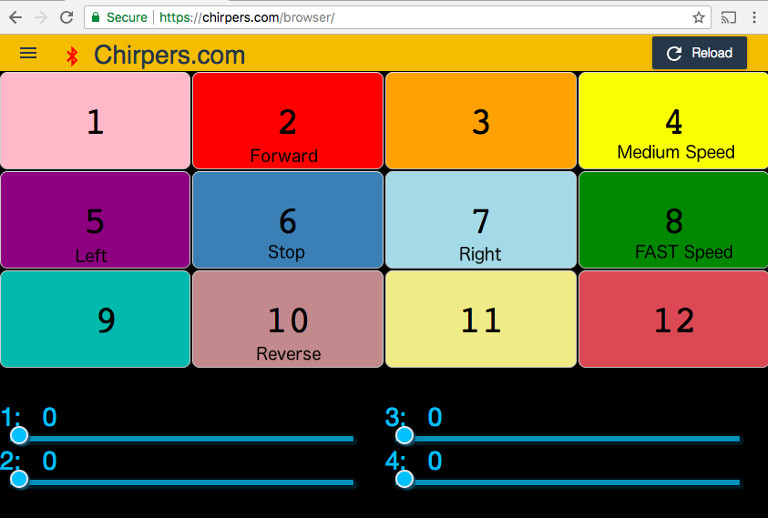
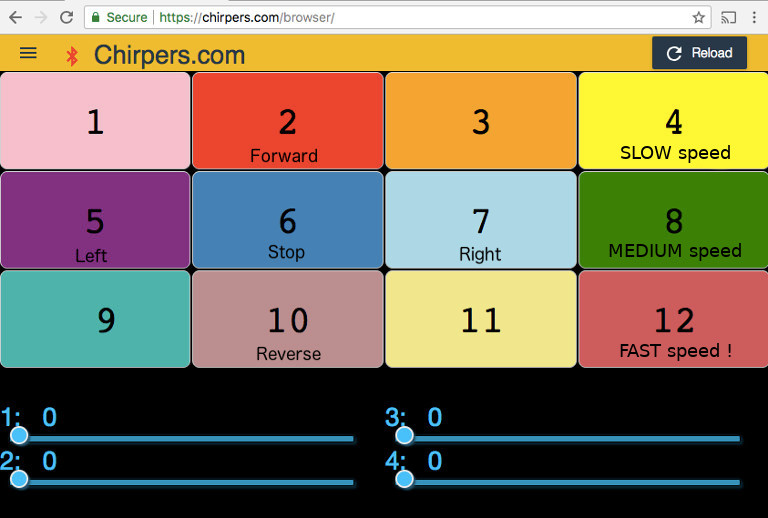
pic

diff --git a/README.md b/README.md
@@ -66,7 +66,7 @@ Import -> Examples -> synergy 2019 lolin32 oled bot
 or copy and paste:
 
 ```javascript
-[{"id":"w7289B2H_X4","type":"bluetooth out","z":"UFiUzfL0xVA","name":"digital","characteristicId":"2a56","bleServiceId":"bada5555-e91f-1337-a49b-8675309fb099","x":636,"y":157,"wires":[]},{"id":"IMIdfb8ZRDc","type":"bluetooth out","z":"UFiUzfL0xVA","name":"analog","characteristicId":"2a58","bleServiceId":"bada5555-e91f-1337-a49b-8675309fb099","x":648,"y":421,"wires":[]},{"id":"XLiyeeZNfHg","type":"iot buttons","z":"UFiUzfL0xVA","x":79.5,"y":38,"wires":[["ZpGYRy-6SjU"]]},{"id":"ZpGYRy-6SjU","type":"switch","z":"UFiUzfL0xVA","name":"","property":"payload","propertyType":"msg","rules":[{"t":"eq","v":"2","vt":"num"},{"t":"eq","v":"10","vt":"num"},{"t":"eq","v":"5","vt":"num"},{"t":"eq","v":"7","vt":"num"},{"t":"eq","v":"6","vt":"num"},{"t":"eq","v":"4","vt":"num"},{"t":"eq","v":"8","vt":"num"},{"t":"eq","v":"1","vt":"str"}],"checkall":"true","outputs":8,"x":157,"y":270,"wires":[["3G19J9pm8kg"],["Vy_DQgVO6Tg"],["ABJ-PXjp8L8"],["s1Vjl8NOHVM"],["in0eScdUR_o"],["m3dKjykASr8"],["tVJtHjltcWw"],[]]},{"id":"in0eScdUR_o","type":"change","z":"UFiUzfL0xVA","name":"stop","rules":[{"t":"set","p":"payload","pt":"msg","to":"[19,0,0,4,0,0]","tot":"json"}],"action":"","property":"","from":"","to":"","reg":false,"x":415,"y":366,"wires":[["IMIdfb8ZRDc"]]},{"id":"m3dKjykASr8","type":"change","z":"UFiUzfL0xVA","name":"medium","rules":[{"t":"set","p":"payload","pt":"msg","to":"[19,200,0,4,200,0]","tot":"json"}],"action":"","property":"","from":"","to":"","reg":false,"x":417,"y":426,"wires":[["IMIdfb8ZRDc"]]},{"id":"tVJtHjltcWw","type":"change","z":"UFiUzfL0xVA","name":"fast","rules":[{"t":"set","p":"payload","pt":"msg","to":"[19,255,255,4,255,255]","tot":"json"}],"action":"","property":"","from":"","to":"","reg":false,"x":417,"y":488,"wires":[["IMIdfb8ZRDc"]]},{"id":"3G19J9pm8kg","type":"change","z":"UFiUzfL0xVA","name":"forward","rules":[{"t":"set","p":"payload","pt":"msg","to":"[23,1,18,0,17,1,16,0]","tot":"json"}],"action":"","property":"","from":"","to":"","reg":false,"x":408,"y":70,"wires":[["w7289B2H_X4"]]},{"id":"Vy_DQgVO6Tg","type":"change","z":"UFiUzfL0xVA","name":"reverse","rules":[{"t":"set","p":"payload","pt":"msg","to":"[23,0,18,1,17,0,16,1]","tot":"json"}],"action":"","property":"","from":"","to":"","reg":false,"x":408,"y":136,"wires":[["w7289B2H_X4"]]},{"id":"ABJ-PXjp8L8","type":"change","z":"UFiUzfL0xVA","name":"left","rules":[{"t":"set","p":"payload","pt":"msg","to":"[23,1,18,0,17,0,16,1]","tot":"json"}],"action":"","property":"","from":"","to":"","reg":false,"x":409,"y":197,"wires":[["w7289B2H_X4"]]},{"id":"s1Vjl8NOHVM","type":"change","z":"UFiUzfL0xVA","name":"right","rules":[{"t":"set","p":"payload","pt":"msg","to":"[17,1,16,0,23,0,18,1]","tot":"json"}],"action":"","property":"","from":"","to":"","reg":false,"x":408,"y":263,"wires":[["w7289B2H_X4"]]}]
+[{"id":"G9ihNm2CSyU","type":"bluetooth out","z":"Punipf5yV3E","name":"digital / direction","deviceName":"","characteristicId":"2a56","bleServiceId":"bada5555-e91f-1337-a49b-8675309fb099","x":646.5000076293945,"y":468.80004596710205,"wires":[]},{"id":"OYC-sdySLAw","type":"bluetooth out","z":"Punipf5yV3E","name":"analog / speed","deviceName":"","characteristicId":"2a58","bleServiceId":"bada5555-e91f-1337-a49b-8675309fb099","x":658.5000076293945,"y":732.800045967102,"wires":[]},{"id":"1nu8lbyIEnA","type":"iot buttons","z":"Punipf5yV3E","x":90.00000762939453,"y":349.80004596710205,"wires":[["QDDvGIHyq-c"]]},{"id":"QDDvGIHyq-c","type":"switch","z":"Punipf5yV3E","name":"","property":"payload","propertyType":"msg","rules":[{"t":"eq","v":"2","vt":"num"},{"t":"eq","v":"10","vt":"num"},{"t":"eq","v":"5","vt":"num"},{"t":"eq","v":"7","vt":"num"},{"t":"eq","v":"6","vt":"num"},{"t":"eq","v":"4","vt":"num"},{"t":"eq","v":"8","vt":"num"},{"t":"eq","v":"12","vt":"str"}],"checkall":"true","outputs":8,"x":167.50000762939453,"y":581.800045967102,"wires":[["hZXVQYxLZt4"],["sN2hlGG-vLw"],["KZ3nNFvuqVs"],["7biqbIx0zkI"],["XFyAcAXWf8Q","c0z18ZM4j5c"],["vNVt9kMLmyk"],["0ler7QlFLjI"],["BKUpzsHsuoY"]]},{"id":"XFyAcAXWf8Q","type":"change","z":"Punipf5yV3E","name":"stop","rules":[{"t":"set","p":"payload","pt":"msg","to":"[0,0,0, 15,0,0]","tot":"json"}],"action":"","property":"","from":"","to":"","reg":false,"x":417.5000190734863,"y":689.799976348877,"wires":[["OYC-sdySLAw"]]},{"id":"0ler7QlFLjI","type":"change","z":"Punipf5yV3E","name":"medium","rules":[{"t":"set","p":"payload","pt":"msg","to":"[0,220,0, 15,220,0]","tot":"json"}],"action":"","property":"","from":"","to":"","reg":false,"x":419.5000190734863,"y":766.7999773025513,"wires":[["OYC-sdySLAw"]]},{"id":"BKUpzsHsuoY","type":"change","z":"Punipf5yV3E","name":"fast","rules":[{"t":"set","p":"payload","pt":"msg","to":"[0,255,255, 15,255,255]","tot":"json"}],"action":"","property":"","from":"","to":"","reg":false,"x":421.5000228881836,"y":806.7999792098999,"wires":[["OYC-sdySLAw"]]},{"id":"hZXVQYxLZt4","type":"change","z":"Punipf5yV3E","name":"forward","rules":[{"t":"set","p":"payload","pt":"msg","to":"[2, 1, 14, 0, 12, 1, 13, 0]","tot":"json"}],"action":"","property":"","from":"","to":"","reg":false,"x":418.50000762939453,"y":381.80004596710205,"wires":[["G9ihNm2CSyU"]]},{"id":"sN2hlGG-vLw","type":"change","z":"Punipf5yV3E","name":"reverse","rules":[{"t":"set","p":"payload","pt":"msg","to":"[2, 0, 14, 1, 12, 0, 13, 1]","tot":"json"}],"action":"","property":"","from":"","to":"","reg":false,"x":418.5000190734863,"y":421.8000726699829,"wires":[["G9ihNm2CSyU"]]},{"id":"KZ3nNFvuqVs","type":"change","z":"Punipf5yV3E","name":"left","rules":[{"t":"set","p":"payload","pt":"msg","to":"[2, 1, 14, 0, 12, 0, 13, 1]","tot":"json"}],"action":"","property":"","from":"","to":"","reg":false,"x":423.5000228881836,"y":533.7999744415283,"wires":[["G9ihNm2CSyU"]]},{"id":"7biqbIx0zkI","type":"change","z":"Punipf5yV3E","name":"right","rules":[{"t":"set","p":"payload","pt":"msg","to":"[2,0, 14, 1, 12,1, 13, 0]","tot":"json"}],"action":"","property":"","from":"","to":"","reg":false,"x":429.5000190734863,"y":578.7999753952026,"wires":[["G9ihNm2CSyU"]]},{"id":"c0z18ZM4j5c","type":"change","z":"Punipf5yV3E","name":"stop","rules":[{"t":"set","p":"payload","pt":"msg","to":"[2, 0, 14, 0, 12, 0, 13, 0]","tot":"json"}],"action":"","property":"","from":"","to":"","reg":false,"x":419.6000213623047,"y":479.00007343292236,"wires":[["G9ihNm2CSyU"]]},{"id":"vNVt9kMLmyk","type":"change","z":"Punipf5yV3E","name":"slow","rules":[{"t":"set","p":"payload","pt":"msg","to":"[0,190,0, 15,190,0]","tot":"json"}],"action":"","property":"","from":"","to":"","reg":false,"x":416.6000213623047,"y":729.0000743865967,"wires":[["OYC-sdySLAw"]]}]
 ```
 
 Click the Run button and connect to YOUR bot!
